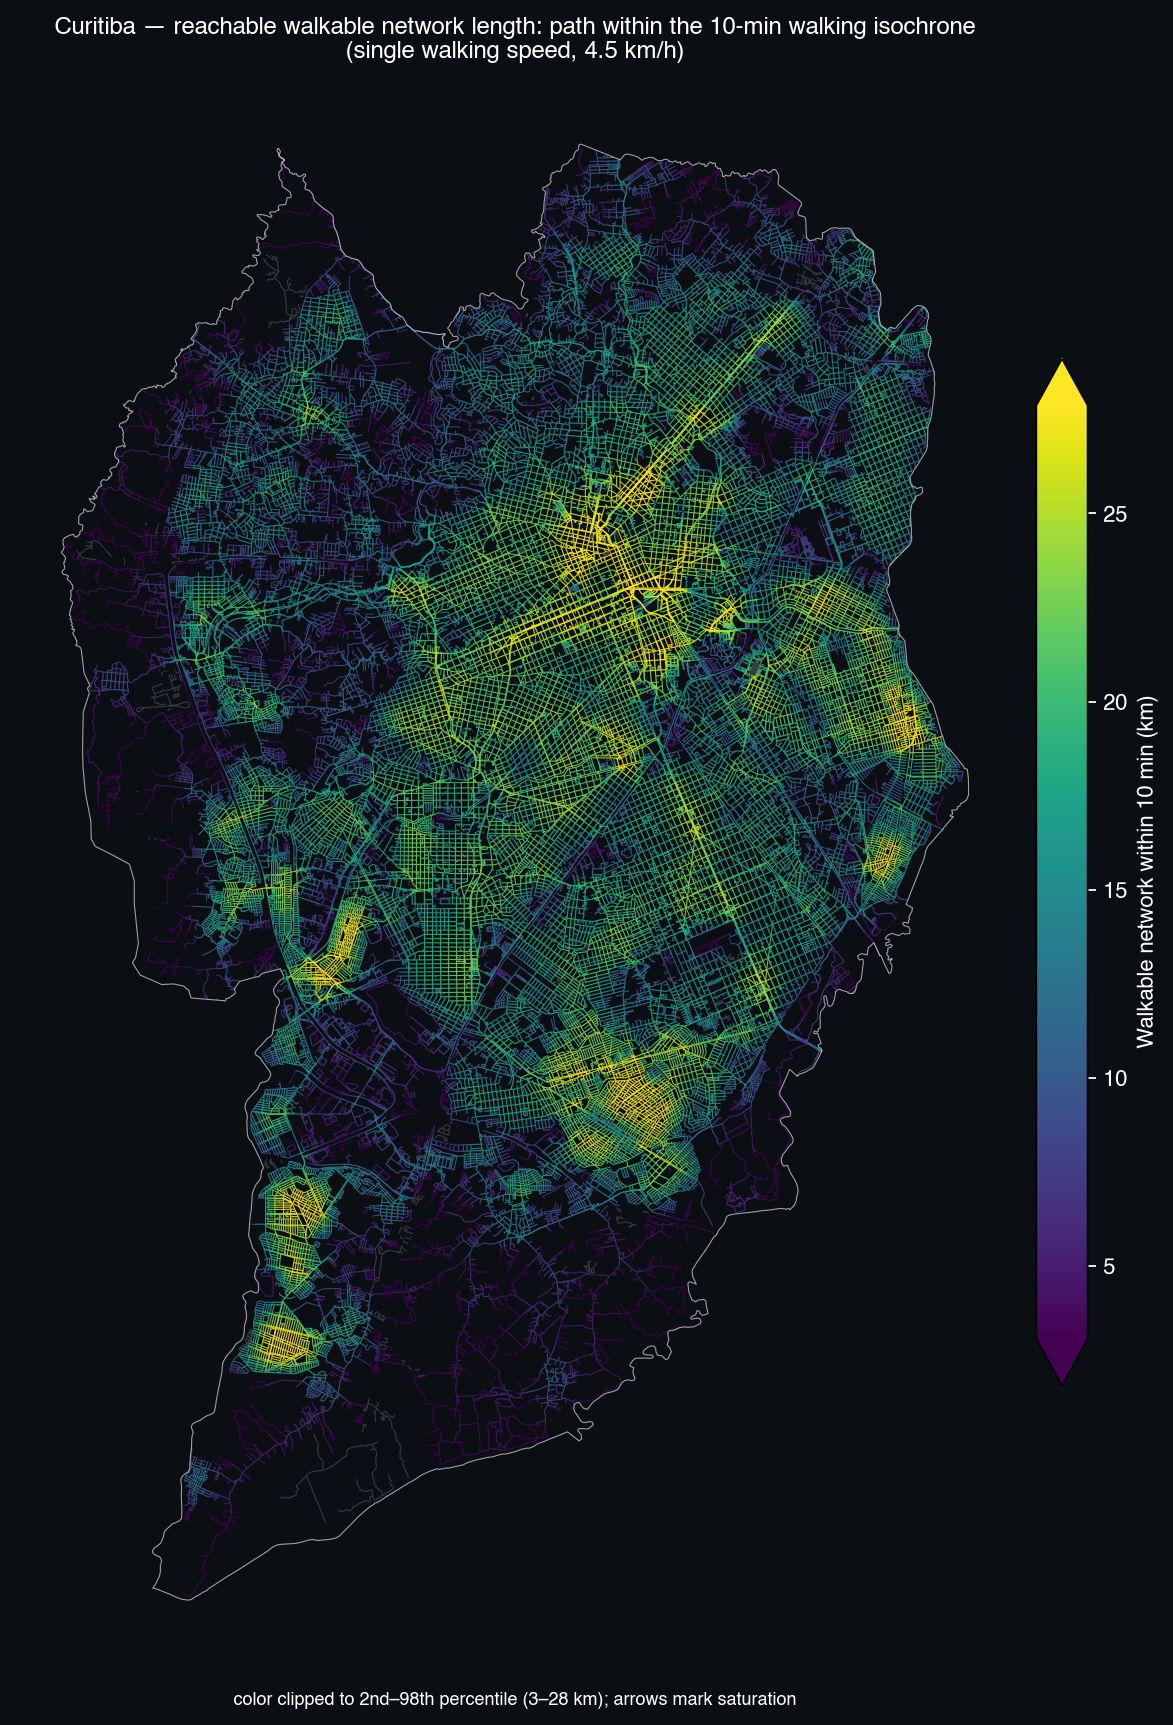
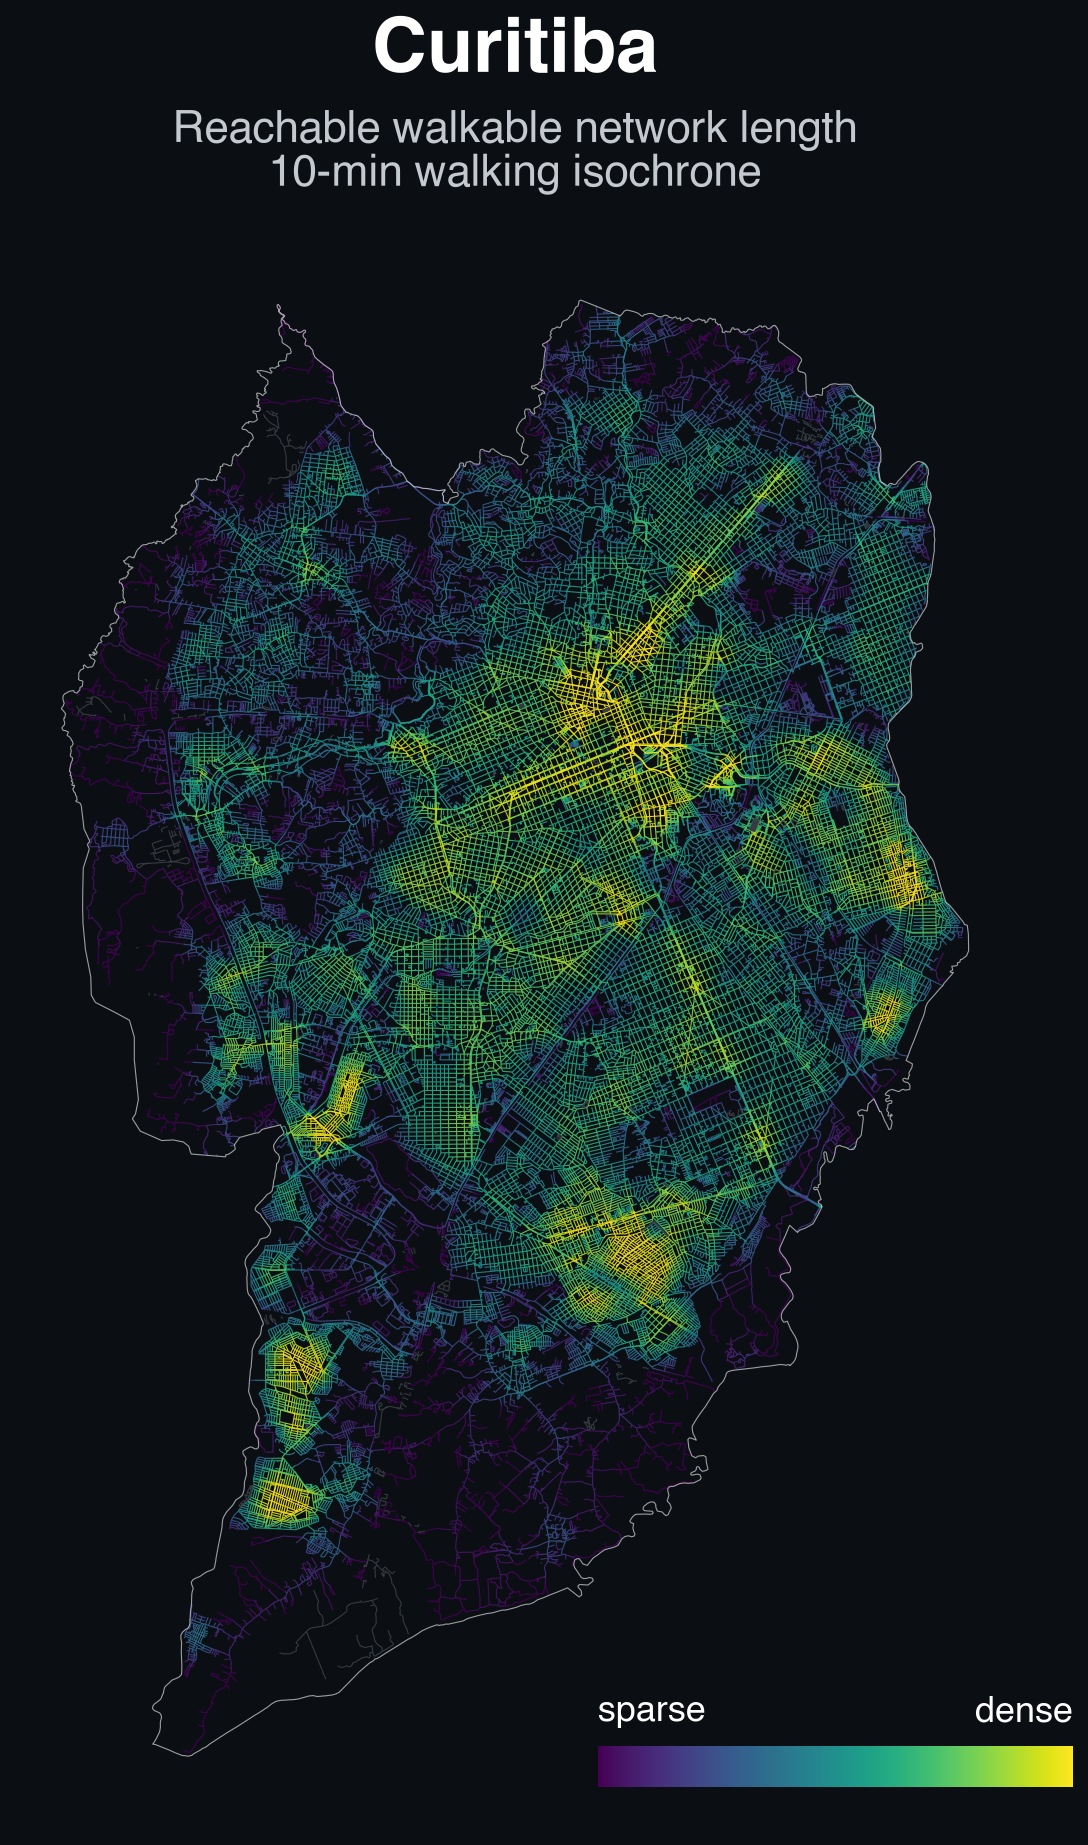
improving dataviz

diff --git a/scripts/plot_reachable_length.py b/scripts/plot_reachable_length.py
@@ -72,7 +72,7 @@ def node_mask(nodes, boundary):
     return nodes.geometry.within(boundary.geometry.iloc[0]).to_numpy()
 
 
-def draw_map(fig, ax, edges_cur, column, title, colorbar_label, scale_values):
+def draw_map(fig, ax, edges_cur, column, title, subtitle, scale_values):
     """Draw the metric map; returns the (lo, hi) of its color scale.
 
     The color scale is taken from `scale_values` — the per-node metric values of
@@ -99,24 +99,34 @@ def draw_map(fig, ax, edges_cur, column, title, colorbar_label, scale_values):
         missing_kwds={"color": "#3a3f47", "linewidth": 0.5},
     )
 
-    sm = plt.cm.ScalarMappable(cmap=CMAP, norm=norm)
-    sm.set_array(v)
-    cbar = fig.colorbar(sm, ax=ax, extend="both", fraction=0.046, pad=0.02)
-    cbar.set_label(colorbar_label, color="white")
-    cbar.ax.yaxis.set_tick_params(color="white")
-    plt.setp(plt.getp(cbar.ax.axes, "yticklabels"), color="white")
-
-    ax.set_title(title, color="white", fontsize=11)
+    # Big city name, with a subtitle just beneath it.
+    ax.set_title(title, color="white", fontsize=34, fontweight="bold", pad=70)
     ax.text(
         0.5,
-        -0.02,
-        f"color clipped to 2nd–98th percentile ({lo:.0f}–{hi:.0f} km); "
-        f"arrows mark saturation",
+        1.02,
+        subtitle,
         transform=ax.transAxes,
         ha="center",
-        color="white",
-        fontsize=8,
+        va="bottom",
+        color="#c4c9d0",
+        fontsize=20,
     )
+
+    # Minimal gradient legend: a "sparse → dense" bar in the bottom-left corner,
+    # with its labels just above the bar (not on it, where white text would clash
+    # with the yellow end of the palette).
+    sm = plt.cm.ScalarMappable(cmap=CMAP, norm=norm)
+    sm.set_array(v)
+    cax = fig.add_axes([0.570, 0.13, 0.33, 0.02])  # bottom-right, raised toward the map
+    cbar = fig.colorbar(sm, cax=cax, orientation="horizontal")
+    cbar.set_ticks([])
+    cbar.outline.set_visible(False)
+    x0, y0 = cax.get_position().x0, cax.get_position().y0
+    w, h = cax.get_position().width, cax.get_position().height
+    gap = 8 / (fig.get_size_inches()[1] * 72)  # ~8 pt gap above the bar
+    fig.text(x0, y0 + h + gap, "sparse", ha="left", va="bottom", color="white", fontsize=16)
+    fig.text(x0 + w, y0 + h + gap, "dense", ha="right", va="bottom", color="white", fontsize=16)
+
     ax.set_axis_off()
     return lo, hi
 
@@ -158,9 +168,8 @@ def main():
         ax,
         ec,
         "reachable_km",
-        f"{display} — reachable walkable network length: path within the {CUTOFF_MIN:g}-min "
-        "walking isochrone\n(single walking speed, 4.5 km/h)",
-        f"Walkable network within {CUTOFF_MIN:g} min (km)",
+        display,
+        f"Reachable walkable network length\n{CUTOFF_MIN:g}-min walking isochrone",
         scale,
     )
     boundary.boundary.plot(ax=ax, color="white", linewidth=0.5, alpha=0.6, zorder=3)
